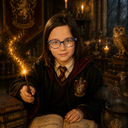
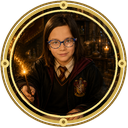
feat(characters): médaillon doré Anastasia + règle d'ajout d'un héros
- Portrait `img/anastasia.png` retraité avec le frame doré identique à
  Céleste/Iris/Maxence (double anneau or + gemmes cardinales). Le crop
  brut est conservé en `img/anastasia-original.png` pour cohérence avec
  les autres héros.
- CLAUDE.md : nouvelle section "Ajouter un nouveau personnage jouable"
  qui codifie les 4 étapes (deux portraits, entrée CHARACTERS, hero-card,
  smoke) afin qu'une prochaine session livre les deux fichiers d'office.

https://claude.ai/code/session_01VfJqdsetFD1JuVAWpxCN9i

diff --git a/CLAUDE.md b/CLAUDE.md
@@ -118,6 +118,37 @@ player2 ──┘
 Harry : sorts offensifs + Protego — commence avec : Expelliarmus, Stupefix, Episkey, Protego, Incendio
 Hermione : sorts de soin/support + forte magie — commence avec : Episkey, Protego, Incendio, Accio
 
+### Ajouter un nouveau personnage jouable
+
+Pour ajouter un héros sélectionnable (modèle des 6 entrées actuelles :
+Harry, Hermione, Céleste, Iris, Maxence, Anastasia) :
+
+1. **Portrait** — préparer **deux** fichiers PNG 128×128 dans `img/` :
+   - `img/<key>-original.png` : crop centré du visuel source, sans décoration.
+   - `img/<key>.png` : variante encadrée d'un **médaillon doré**
+     (cercle photo + double anneau or + 4 gemmes aux points cardinaux).
+     C'est ce fichier qui s'affiche partout dans le jeu.
+   Procédure : center-crop puis Lanczos vers 128×128 pour la version
+   `-original.png`, puis appliquer le frame doré pour `<key>.png`. Comparer
+   à l'œil avec `img/celeste.png`, `img/iris.png`, `img/maxence.png` —
+   structure : photo r≤50, anneau or vif r=52-54, gap, anneau or moyen
+   r=57-60, bord or sombre r=61-63, gemmes aux N/S/E/O.
+2. **Données** — ajouter une entrée dans `CHARACTERS` (`js/data.js`)
+   avec `name`, `icon`, `class`, `imgSrc:"img/<key>.png"`, `role`, stats
+   (hp/sp/str/int/agi/end/lck/mag/atk/def), `wand`, `armor`, `acc`,
+   `spells:[…]`, `tagline`. `_hydrateCharacter()` lit ces champs.
+3. **Carte de sélection** — ajouter un `<button class="hero-card"
+   data-key="<key>" onclick="toggleHero('<key>')">…</button>` dans
+   `#hero-grid` de `index.html`, en numérotant `hero-badge` à la suite.
+4. **Test** — relancer `node tests/smoke.js` ; aucune assertion n'utilise
+   la nouvelle clé directement, donc tous les scénarios doivent rester
+   verts sans modification. Si tu touches au flow de sélection, ajouter
+   un cas dédié.
+
+Aucun autre câblage n'est requis : combats, sauvegardes, équipement,
+quêtes — tout repose sur les références `party[0]/party[1]`/`player`
+qui sont hydratées dynamiquement depuis `CHARACTERS[key]`.
+
 ---
 
 ## Système d'équipement (inventory.js)

diff --git a/.claude/plans/anastasia-character.md b/.claude/plans/anastasia-character.md
@@ -35,3 +35,20 @@ protectrice / lumineuse).
   `_hydrateCharacter()` dans `main.js` qui lit `CHARACTERS[key]`.
 - Pas besoin d'icône SVG dédiée (les héros utilisent leur portrait PNG).
 - Pas de portrait SVG NPC nécessaire (Anastasia est une héroïne, pas un PNJ).
+
+## Suivi — followup médaillon
+
+**Écart constaté** : la première passe a livré `anastasia.png` en crop brut,
+sans le cadre doré façon médaillon que portent `celeste.png` / `iris.png` /
+`maxence.png` (un double anneau or + gemmes cardinales, le crop brut étant
+conservé en `<key>-original.png`).
+
+**Correction** :
+- `img/anastasia-original.png` ← crop brut 128×128 (ancien `anastasia.png`).
+- `img/anastasia.png` ← médaillon doré généré par PIL :
+  cercle photo r≤50, anneau or vif r=52-54, gap, anneau or moyen r=57-60,
+  bord or sombre r=61-63, 4 gemmes N/S/E/O. Couleurs reprises de maxence
+  (#f0d782 vif, #c9a84c moyen, #8a6926 sombre).
+- Règle d'ajout d'un héros documentée dans `CLAUDE.md` (section
+  "Ajouter un nouveau personnage jouable") pour qu'une prochaine session
+  livre les deux fichiers d'office.
